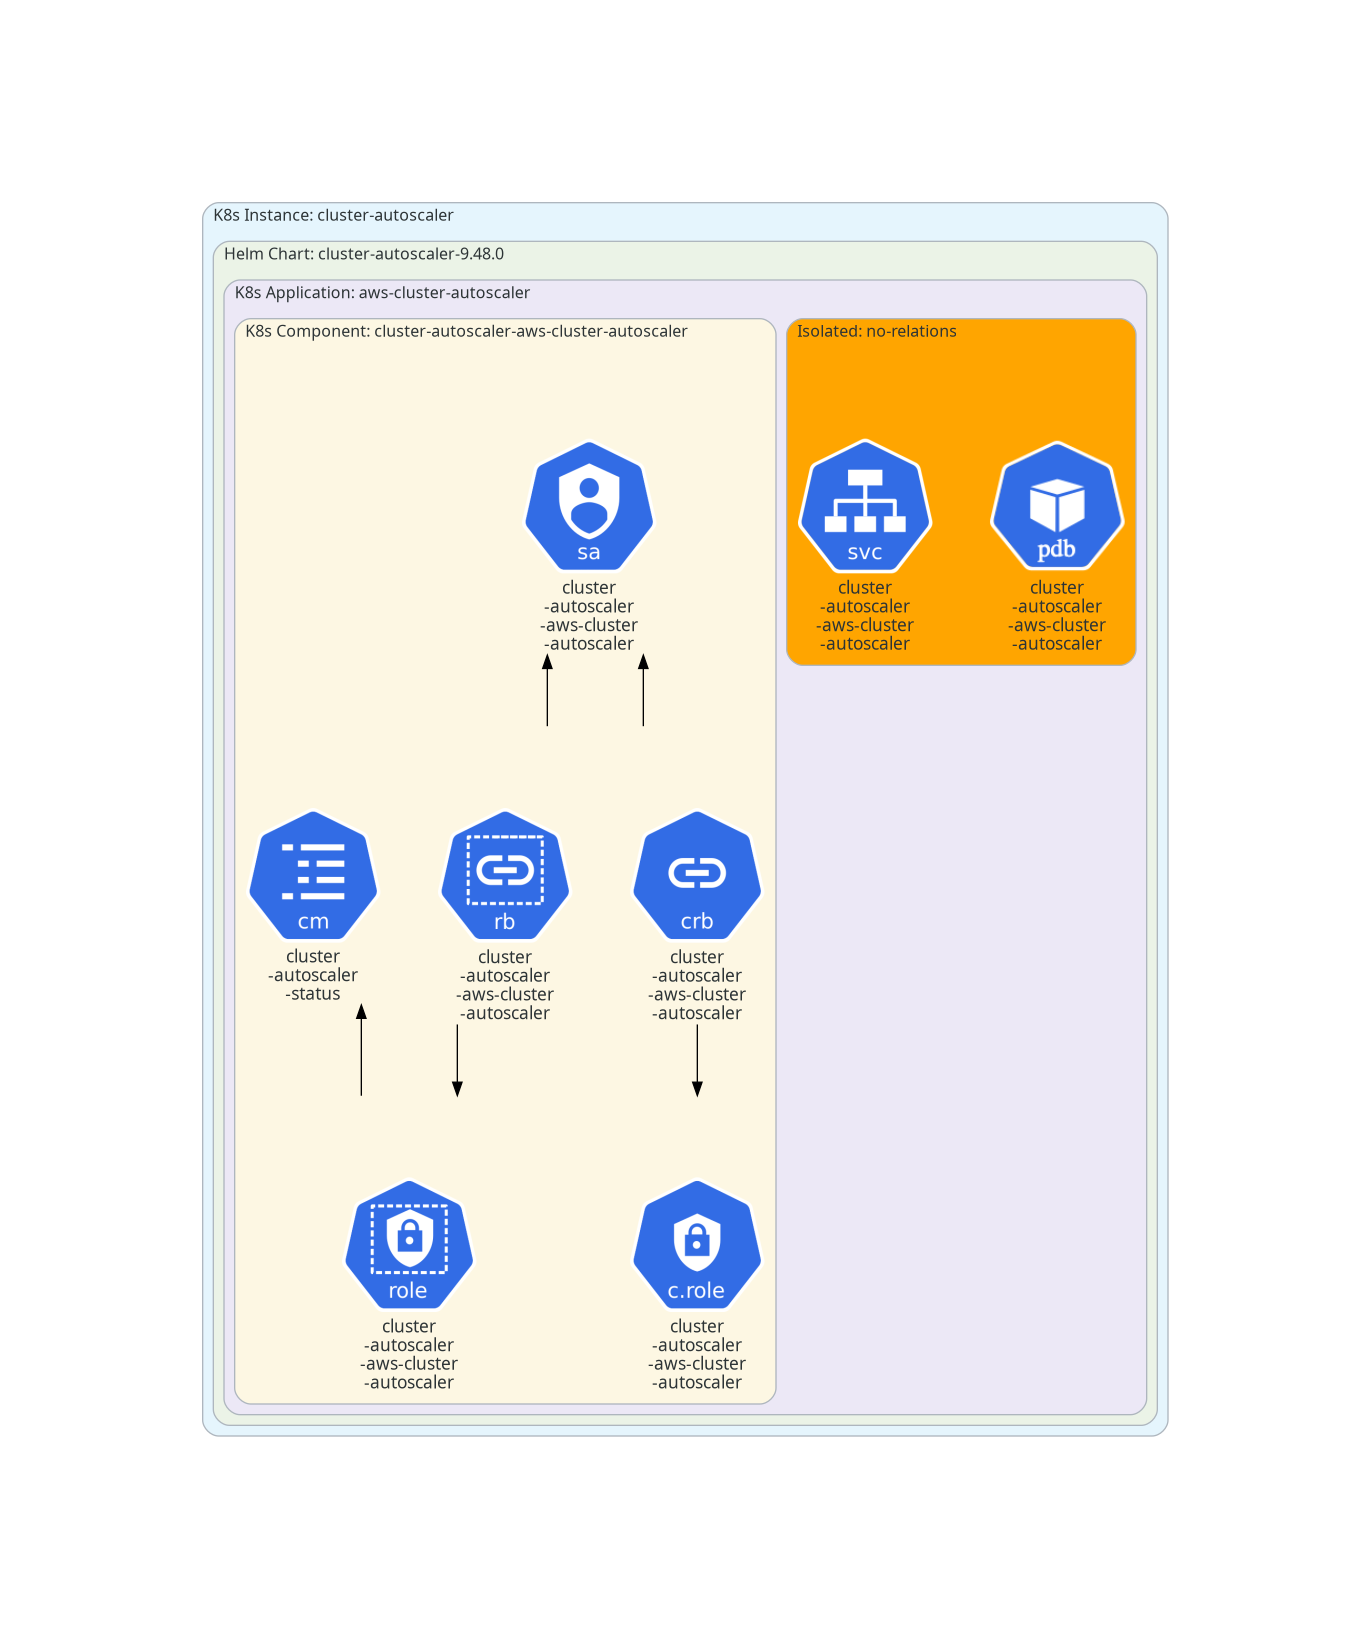
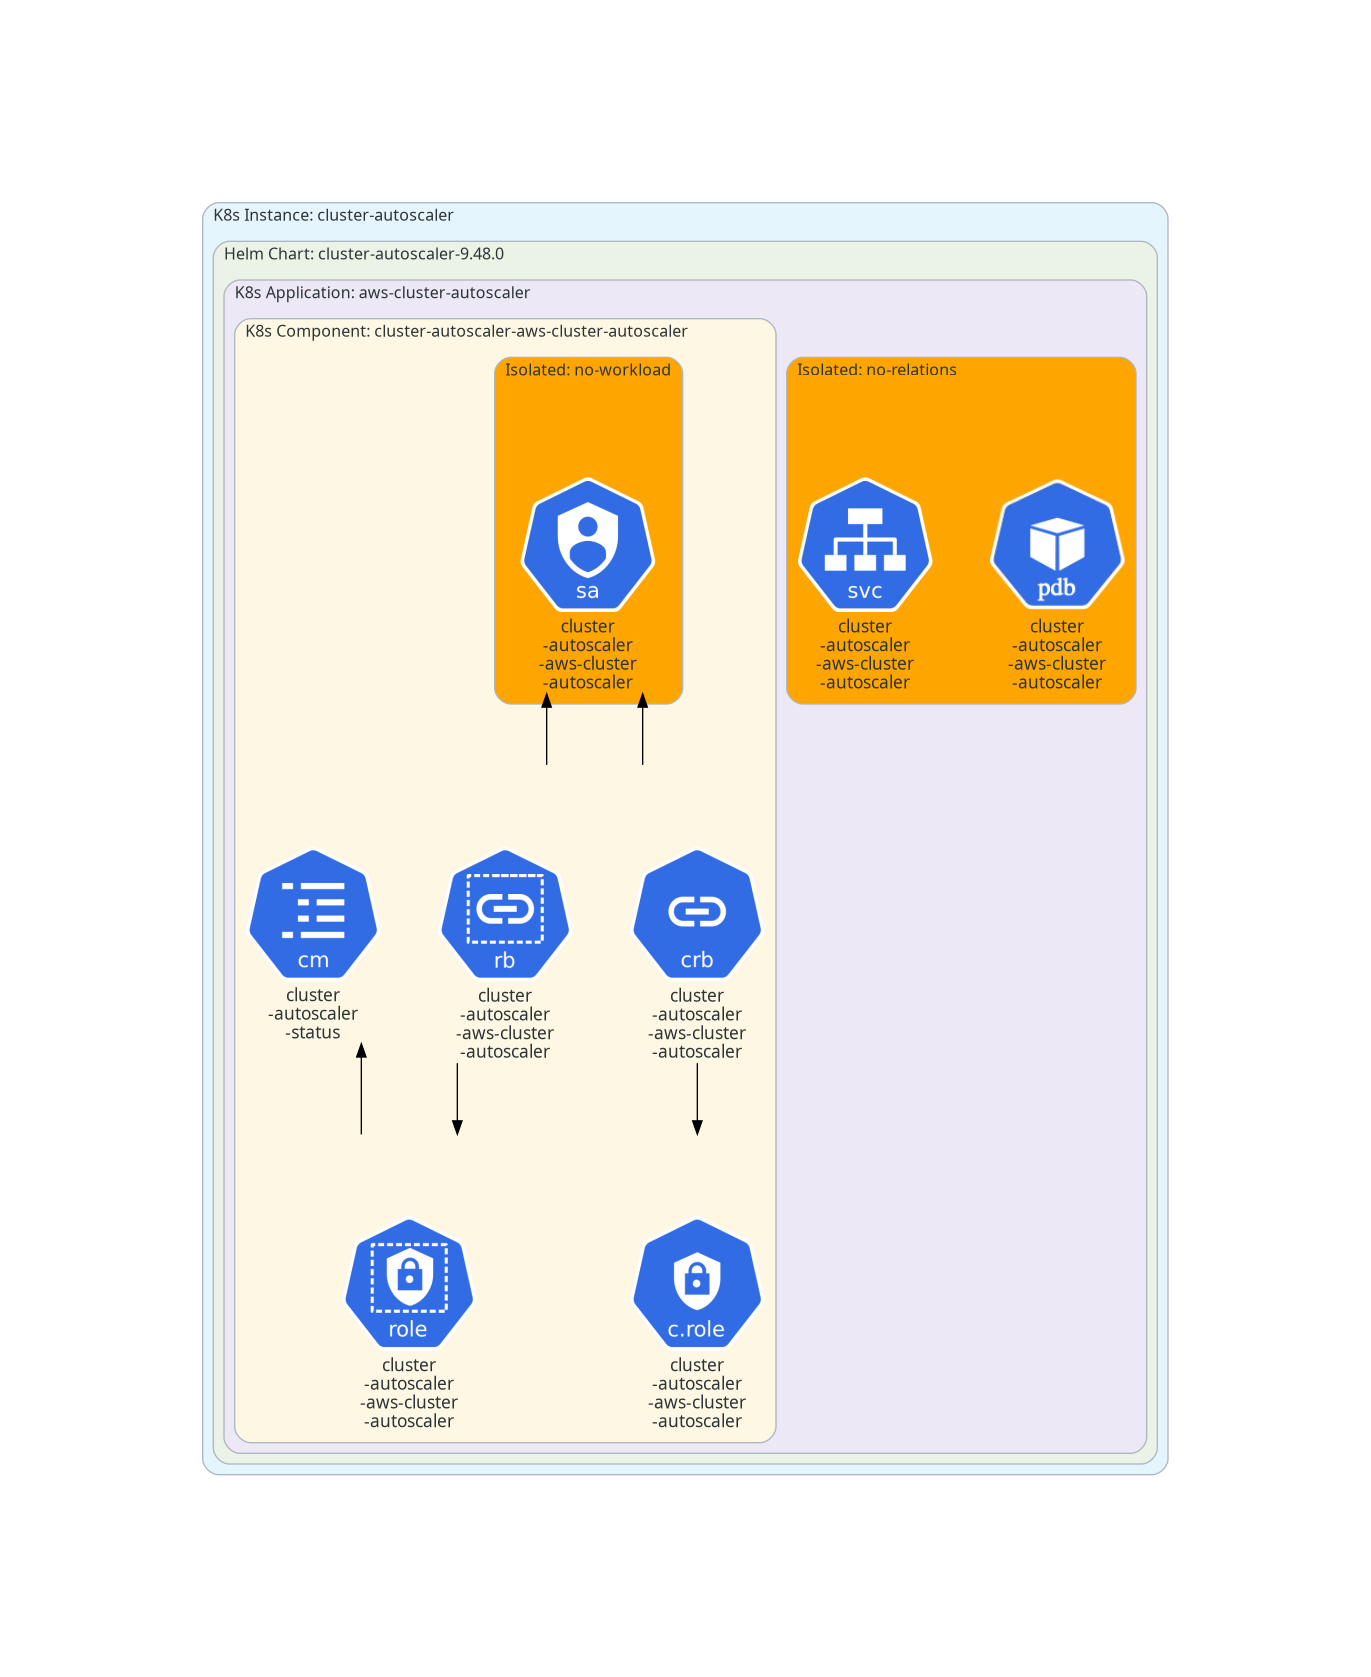
isolation algo : add a workload check for SAs

diff --git a/src/kubefix/algo_mark_isolated.py b/src/kubefix/algo_mark_isolated.py
@@ -79,7 +79,7 @@ def _isolated_no_relation(resources, parent_map, child_map, config, warnings, st
 
 def _isolated_missing_relation(resources, parent_map, child_map, config, resources_by_rid, warnings, stats):
     """Add an 'isolated-resource' label to bindings that have a missing role and/or
-    subject, and roles that have a missing binding.
+    subject, roles that have a missing binding, and service accounts not used by any workload.
 
     Args:
         resources: list of Kubernetes resources (dicts).
@@ -93,7 +93,7 @@ def _isolated_missing_relation(resources, parent_map, child_map, config, resourc
 
     for resource in resources:
         kind = resource.get("kind")
-        if kind not in BINDINGS and kind not in ROLES:
+        if kind not in BINDINGS and kind not in ROLES and kind != "ServiceAccount":
             continue
 
         rid = compute_rid(resource, config)
@@ -132,6 +132,18 @@ def _isolated_missing_relation(resources, parent_map, child_map, config, resourc
                         reasons.append(("no-subject", f"Resource is a binding but has no edge to its subject ServiceAccount '{subject.get('name')}'"))
                         break
 
+        elif kind == "ServiceAccount":
+            # skip 'default', used implicitly by pods without serviceAccountName,
+            name = metadata.get("name")
+            if name == "default":
+                continue
+
+            # no relations at all is already marked by _isolated_no_relation
+            parents = [resources_by_rid[p]["kind"] for p in parent_map.get(rid, [])]
+            # check if this SA has workloads. No parent other than bindings = no workloads
+            if parents and all(k in BINDINGS for k in parents):
+                reasons.append(("no-workload", "Resource is a service account but has no edge from a workload"))
+
         else:  # roles
             # skip roles aggregated by K8s = has specific labels
             if any(key in K8S_AGGREGATE_LABELS for key in labels):
@@ -166,6 +178,7 @@ def algo_mark_isolated(resources):
     - 'no-role' / 'no-subject': a binding missing its role and/or a subject,
       concatenated when both are missing, for example : 'no-role-no-subject'
     - 'no-binding': a role that isn't bound by any binding
+    - 'no-workload': a service account that isn't used by any workload
     - 'no-labels': no cluster labels
 
     A resource with no cluster labels that is already marked gets '-no-labels'
